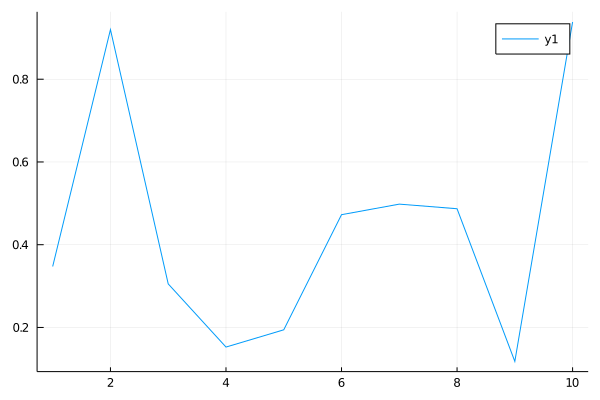
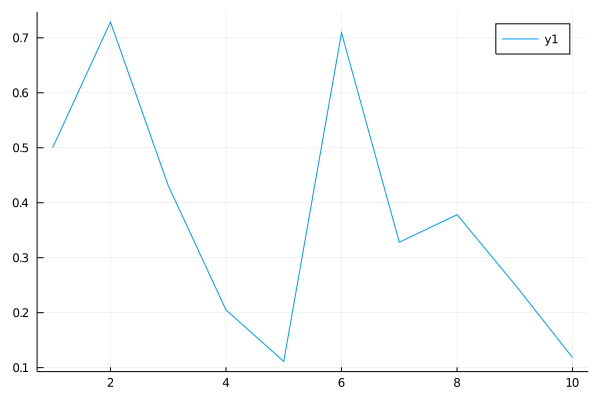
WIP

diff --git a/docs/posts/Dotto/D002-2021-04-28-coffee-market-in-paris/index.html b/docs/posts/Dotto/D002-2021-04-28-coffee-market-in-paris/index.html
@@ -5,8 +5,8 @@
     <meta http-equiv="Content-Type" content="text/html; charset=utf-8" />
     <meta name="generator" content="pandoc" />
 
-
-
+    
+    
     <title>Coffee Market in Paris</title>
 
         <script src="coffee-market-in-paris_files/header-attrs-2.7.3/header-attrs.js"></script>
@@ -26,7 +26,7 @@
                code {color: inherit; background-color: rgba(0, 0, 0, 0.04);}
                pre:not([class]) { background-color: white }</style>
         <script src="coffee-market-in-paris_files/navigation-1.1/tabsets.js"></script>
-
+        
           <meta property="og:title" content="Coffee Market in Paris" />
           <meta property="og:type" content="article">
           <meta property="og:description" content="A short description of the Dotto.
@@ -35,16 +35,16 @@
           <meta property="og:locale" content="en_US">
           <meta property="og:site_name" content="Data Motto">
           <meta property="og:image" content="resources/images/default_dotto.jpg" />
-
-
+          
+        
           <meta property="twitter:card" content="summary_large_image">
           <meta property="twitter:title" content="Coffee Market in Paris">
           <meta property="twitter:description" content="A short description of the Dotto.
         ">
           <meta property="twitter:url" content="https://datamotto.com/posts/dotto/D002-2021-04-28-coffee-market-in-paris/">
           <meta property="twitter:image" content="resources/images/default_dotto.jpg">
-
-
+          
+    
 <!-- Global site tag (gtag.js) - Google Analytics -->
 <script async src="https://www.googletagmanager.com/gtag/js?id=G-WZMEMQM0Y2"></script>
 <script>
@@ -111,9 +111,8 @@ A short description of the Dotto.
 
 <div class="col-1 d-flex justify-content-center align-items-center">
 <button class="btn btn-outline-light btn-block header-like-btn" style="background-color:white" type="button">
-.
 <!-- LikeBtn.com BEGIN -->
-<span class="likebtn-wrapper" data-theme="nero" btn_size="36" data-f_size="8" data-icon_l_url="https://datamotto.com/assets/img/red-circle.svg" data-i18n_like="Like Dotto" data-white_label="true" data-identifier="3cec3bca-a81d-11eb-b8a7-acbc32baed85" data-addthis_service_codes="twitter, facebook, linkedin, gmail, email, slack, telegram" data-show_like_label="false" data-dislike_enabled="false" data-counter_frmt="comma" data-popup_html="I like the Dotto!" data-share_size="large" data-site_id="604e13966fd08bbf03672c5b" data-i18n_like_tooltip="Like Dotto"></span>
+<span class="likebtn-wrapper" data-theme="nero" data-i18n_like="Like Dotto" data-white_label="true" data-identifier="3cec3bca-a81d-11eb-b8a7-acbc32baed85" data-addthis_service_codes="twitter, facebook, linkedin, gmail, email, slack, telegram" data-show_like_label="false" data-dislike_enabled="false" data-counter_frmt="comma" data-popup_html="I like the Dotto!" data-share_size="large" data-site_id="604e13966fd08bbf03672c5b" data-i18n_like_tooltip="Like Dotto"></span>
 <script>(function(d,e,s){if(d.getElementById("likebtn_wjs"))return;a=d.createElement(e);m=d.getElementsByTagName(e)[0];a.async=1;a.id="likebtn_wjs";a.src=s;m.parentNode.insertBefore(a, m)})(document,"script","//w.likebtn.com/js/w/widget.js");</script>
 <!-- LikeBtn.com END -->
 </button>
@@ -247,7 +246,7 @@ class="btn dotto-main-dot-shape"
 <h1>&nbsp;Instructions:</h1>
 </div>
 <br>
-
+ 
 <div v-if="activeLang === 'r'" class="mx-2">
 <p class="mx-2">
 
@@ -255,10 +254,10 @@ class="btn dotto-main-dot-shape"
 
 </p>
 </div>
+ 
 
 
-
-
+ 
 <div v-if="activeLang === 'julia'" class="mx-2">
 <p class="mx-2">
 
@@ -266,7 +265,7 @@ class="btn dotto-main-dot-shape"
 
 </p>
 </div>
-
+ 
 
 
 </div>
@@ -277,16 +276,16 @@ class="btn dotto-main-dot-shape"
 <h1>&nbsp;Codes:</h1>
 </div>
 <br>
-
+ 
 <div v-if="activeLang === 'r'" class="mx-2">
 
 <div class="sourceCode" id="cb1"><pre class="sourceCode r dotto-dot-code"><code class="sourceCode r"><span id="cb1-1"><a href="#cb1-1" aria-hidden="true" tabindex="-1"></a><span class="fu">plot</span>(cars)</span></code></pre></div>
 
 </div>
+ 
 
 
-
-
+ 
 <div v-if="activeLang === 'julia'" class="mx-2">
 
 <div class="sourceCode" id="cb2"><pre class="sourceCode julia dotto-dot-code"><code class="sourceCode julia"><span id="cb2-1"><a href="#cb2-1" aria-hidden="true" tabindex="-1"></a><span class="kw">using</span> Plots</span>
@@ -294,7 +293,7 @@ class="btn dotto-main-dot-shape"
 <span id="cb2-3"><a href="#cb2-3" aria-hidden="true" tabindex="-1"></a>plot(x<span class="op">,</span> y)</span></code></pre></div>
 
 </div>
-
+ 
 
 
 </div>
@@ -304,33 +303,33 @@ class="btn dotto-main-dot-shape"
 <h1>&nbsp;Results:</h1>
 </div>
 <br>
-
+ 
 <div v-if="activeLang === 'r'" class="mx-2 dotto-dot-output">
 
 <p><img src="coffee-market-in-paris_files/figure-html/unnamed-chunk-5-1.png" width="672" style="display: block; margin: auto auto auto 0;" /></p>
 
 </div>
+ 
 
 
-
-
+ 
 <div v-if="activeLang === 'julia'" class="mx-2 dotto-dot-output">
 
 <pre><code>## 10-element Array{Float64,1}:
-##  0.34735739267355825
-##  0.9199404180021571
-##  0.30525447389137694
-##  0.15263891947688135
-##  0.194324729285285
-##  0.47259798388778385
-##  0.49808915844578405
-##  0.48691818330856695
-##  0.1178822929919714
-##  0.9383099522502727</code></pre>
+##  0.5003380651915503
+##  0.7288127976832843
+##  0.43128088896187977
+##  0.20498919626419765
+##  0.1113313960921547
+##  0.709110444949342
+##  0.32821448696066957
+##  0.37830434113912736
+##  0.2512998764807488
+##  0.11817342839340772</code></pre>
 <p><img src="coffee-market-in-paris_files/figure-html/unnamed-chunk-6-J1.png" width="300" style="display: block; margin: auto auto auto 0;" /></p>
 
 </div>
-
+ 
 </div>
 </div>
 </div>
@@ -343,7 +342,7 @@ class="btn dotto-main-dot-shape"
 <h1>&nbsp;Instructions:</h1>
 </div>
 <br>
-
+ 
 <div v-if="activeLang === 'r'" class="mx-2">
 <p class="mx-2">
 
@@ -351,10 +350,10 @@ class="btn dotto-main-dot-shape"
 
 </p>
 </div>
+ 
 
 
-
-
+ 
 <div v-if="activeLang === 'julia'" class="mx-2">
 <p class="mx-2">
 
@@ -362,7 +361,7 @@ class="btn dotto-main-dot-shape"
 
 </p>
 </div>
-
+ 
 
 
 </div>
@@ -373,16 +372,16 @@ class="btn dotto-main-dot-shape"
 <h1>&nbsp;Codes:</h1>
 </div>
 <br>
-
+ 
 <div v-if="activeLang === 'r'" class="mx-2">
 
 <div class="sourceCode" id="cb4"><pre class="sourceCode r dotto-dot-code"><code class="sourceCode r"><span id="cb4-1"><a href="#cb4-1" aria-hidden="true" tabindex="-1"></a>LETTERS[<span class="dv">1</span><span class="sc">:</span><span class="dv">20</span>]</span></code></pre></div>
 
 </div>
+ 
 
 
-
-
+ 
 <div v-if="activeLang === 'julia'" class="mx-2">
 
 <div class="sourceCode" id="cb5"><pre class="sourceCode julia dotto-dot-code"><code class="sourceCode julia"><span id="cb5-1"><a href="#cb5-1" aria-hidden="true" tabindex="-1"></a><span class="kw">using</span> Plots</span>
@@ -390,7 +389,7 @@ class="btn dotto-main-dot-shape"
 <span id="cb5-3"><a href="#cb5-3" aria-hidden="true" tabindex="-1"></a>plot(x<span class="op">,</span> y)</span></code></pre></div>
 
 </div>
-
+ 
 
 
 </div>
@@ -400,44 +399,44 @@ class="btn dotto-main-dot-shape"
 <h1>&nbsp;Results:</h1>
 </div>
 <br>
-
+ 
 <div v-if="activeLang === 'r'" class="mx-2 dotto-dot-output">
 
 <pre><code>##  [1] &quot;A&quot; &quot;B&quot; &quot;C&quot; &quot;D&quot; &quot;E&quot; &quot;F&quot; &quot;G&quot; &quot;H&quot; &quot;I&quot; &quot;J&quot; &quot;K&quot; &quot;L&quot;
 ## [13] &quot;M&quot; &quot;N&quot; &quot;O&quot; &quot;P&quot; &quot;Q&quot; &quot;R&quot; &quot;S&quot; &quot;T&quot;</code></pre>
 
 </div>
+ 
 
 
-
-
+ 
 <div v-if="activeLang === 'julia'" class="mx-2 dotto-dot-output">
 
 <pre><code>## 20-element Array{Float64,1}:
-##  0.7223830802319087
-##  0.49878800968837544
-##  0.36054669887565094
-##  0.739111564079233
-##  0.6486491407489576
-##  0.26508336544475886
-##  0.462553919660055
-##  0.12280724312576297
-##  0.721270889107376
-##  0.7735564160011144
-##  0.08841353732958956
-##  0.9715330301556595
-##  0.7804899958300384
-##  0.15936276480920752
-##  0.27245271493553536
-##  0.4688877825160207
-##  0.2102450988277067
-##  0.1452844186986384
-##  0.6227212081359745
-##  0.06239795299255291</code></pre>
+##  0.02145352181879079
+##  0.6001098071831346
+##  0.9301341800342604
+##  0.3056168023425878
+##  0.6870144659653159
+##  0.5354119059779254
+##  0.5895598714807724
+##  0.9228495205421319
+##  0.7061863704346942
+##  0.2391837868025415
+##  0.357792105947204
+##  0.6228840830873981
+##  0.9217153481313329
+##  0.3403637330148708
+##  0.20801083340275328
+##  0.6037319906002419
+##  0.5977100193247491
+##  0.2655629055298463
+##  0.8012664835879799
+##  0.5444490991468516</code></pre>
 <p><img src="coffee-market-in-paris_files/figure-html/unnamed-chunk-12-J1.png" width="300" style="display: block; margin: auto auto auto 0;" /></p>
 
 </div>
-
+ 
 </div>
 </div>
 </div>
